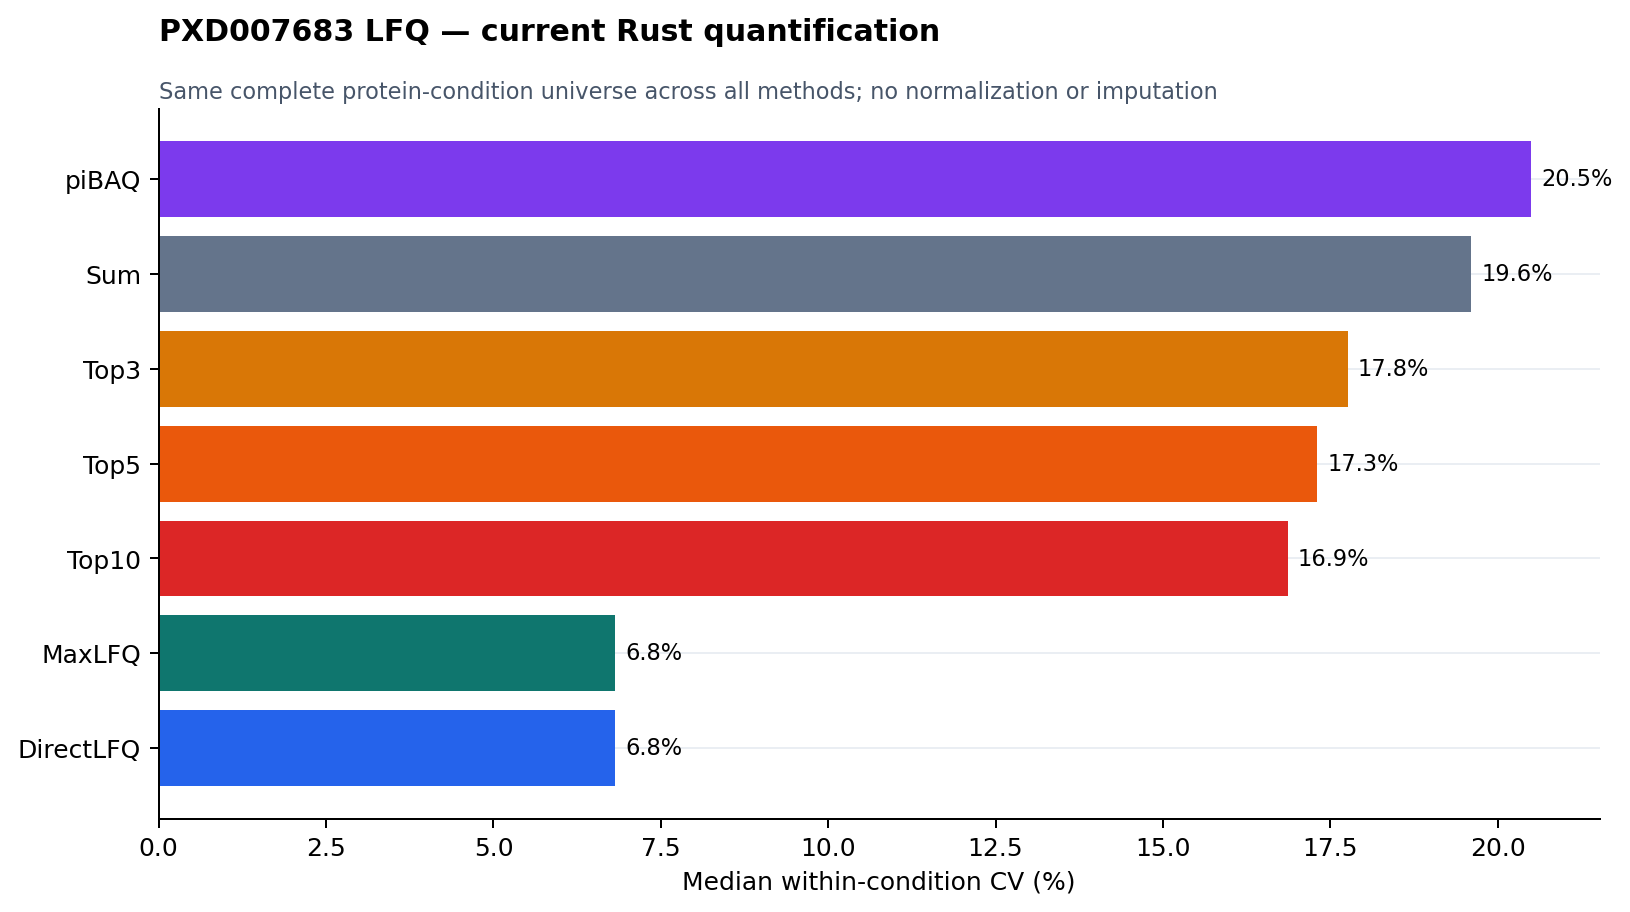
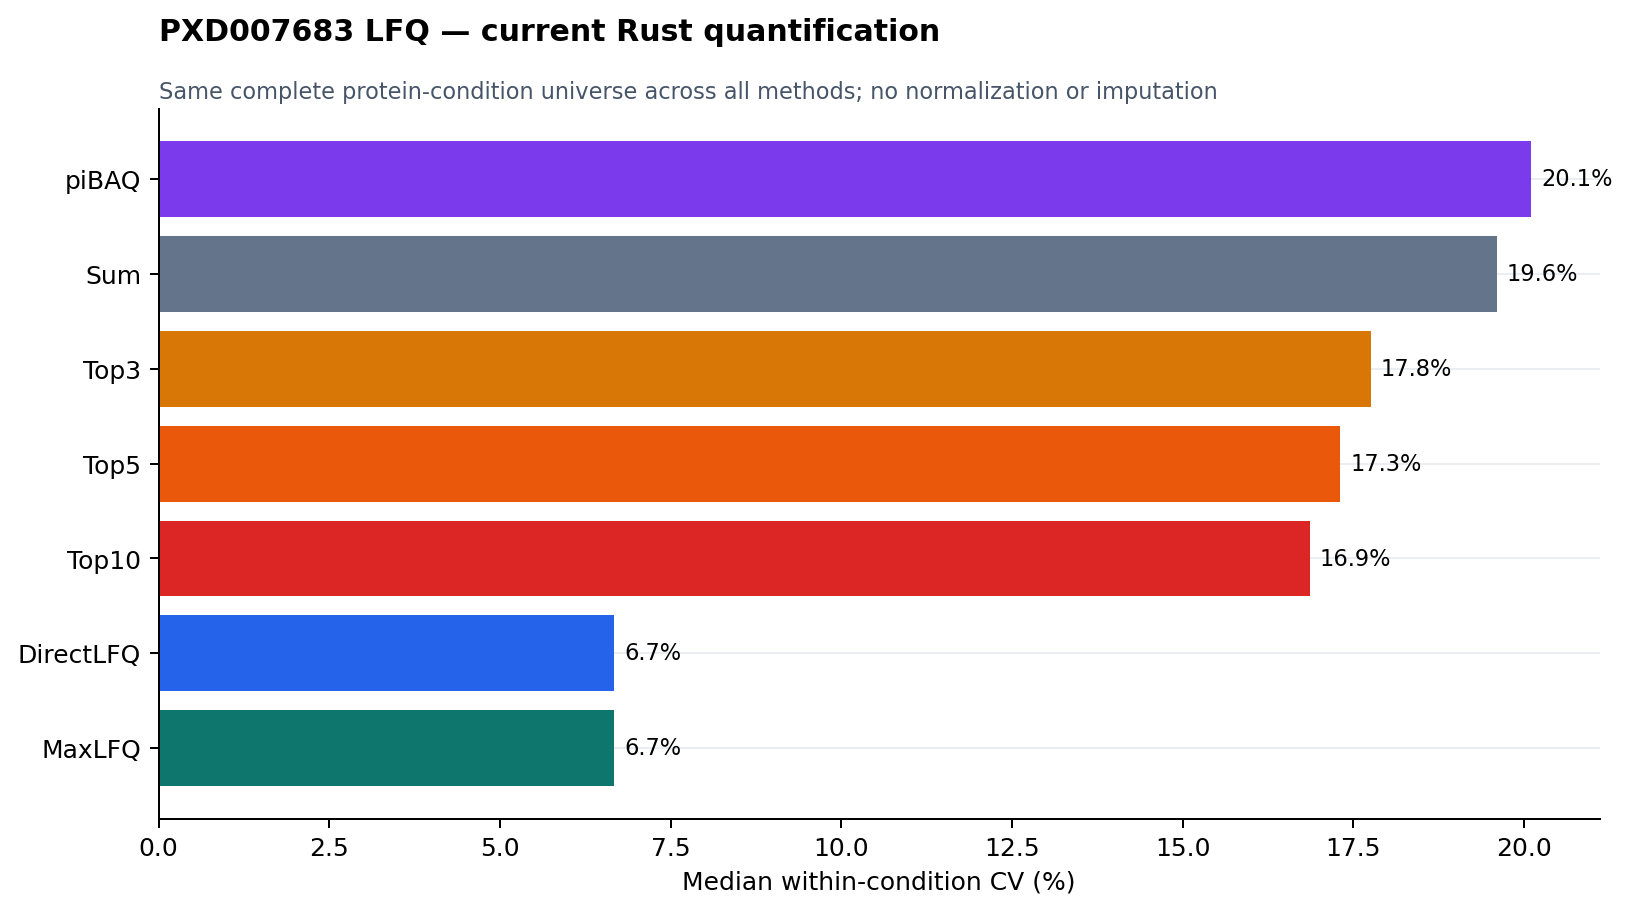
fix(benchmarks): Refresh PXD007683 Rust results

diff --git a/benchmarks/quant-pxd007683-tmt-vs-lfq/README.md b/benchmarks/quant-pxd007683-tmt-vs-lfq/README.md
@@ -38,9 +38,9 @@ zero.
 
 | Method | Classified proteins observed | Matrix completeness | Median within-condition CV |
 |--------|------------------------------|---------------------|----------------------------|
-| piBAQ | 8,662 | 83.2% | 20.5% |
-| MaxLFQ | 6,179 | 86.3% | 6.8% |
-| DirectLFQ | 6,910 | 92.3% | 6.8% |
+| piBAQ | 8,662 | 83.2% | 20.1% |
+| MaxLFQ | 6,179 | 86.3% | 6.7% |
+| DirectLFQ | 6,233 | 86.2% | 6.7% |
 | Sum | 6,629 | 81.6% | 19.6% |
 | Top3 | 6,629 | 81.6% | 17.8% |
 | Top5 | 6,629 | 81.6% | 17.3% |
@@ -80,7 +80,7 @@ QPX feature table. They do not represent imputed values.
 Install the Rust-backed distribution with plotting dependencies:
 
 ```bash
-python -m pip install "mokume[plotting]"
+python -m pip install "mokume[analysis]"
 ```
 
 From the repository root, run:

diff --git a/benchmarks/README.md b/benchmarks/README.md
@@ -43,7 +43,7 @@ Recomputes the 11-sample PXD007683 LFQ arm with the current Rust kernel.
 ## Running Benchmarks
 
 ```bash
-pip install "mokume[plotting]"      # Rust kernel + plotting dependencies
+pip install "mokume[analysis]"      # Rust kernel + plotting dependencies
 cd benchmarks/<benchmark-name>
 # Follow the input paths and entry point documented in that benchmark's README.
 ```
